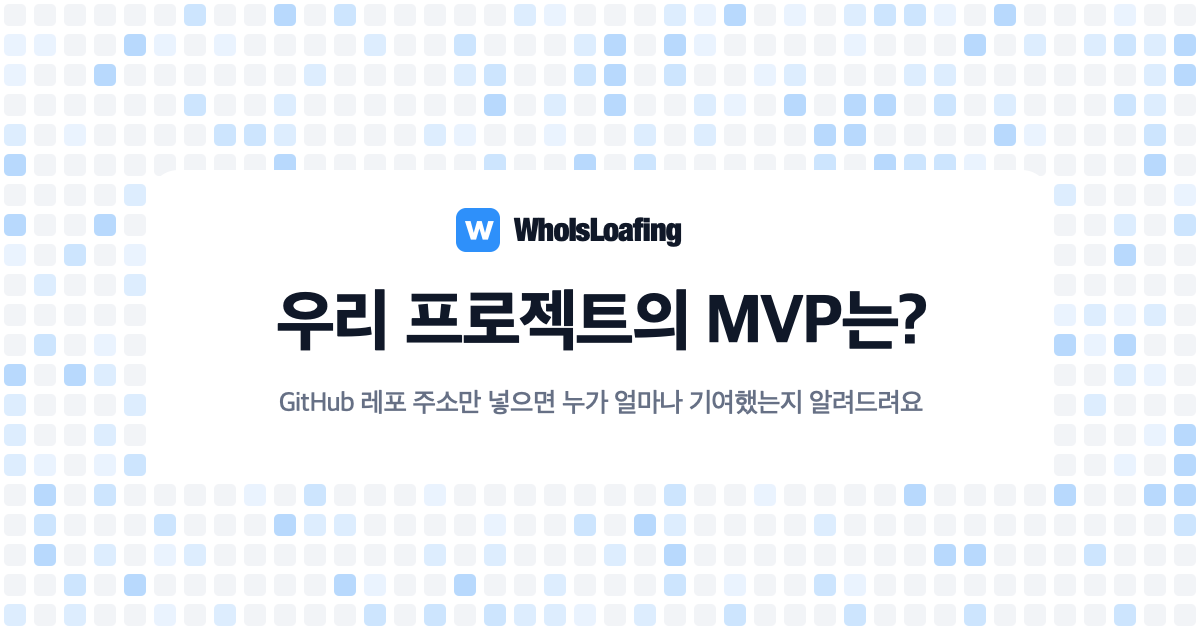
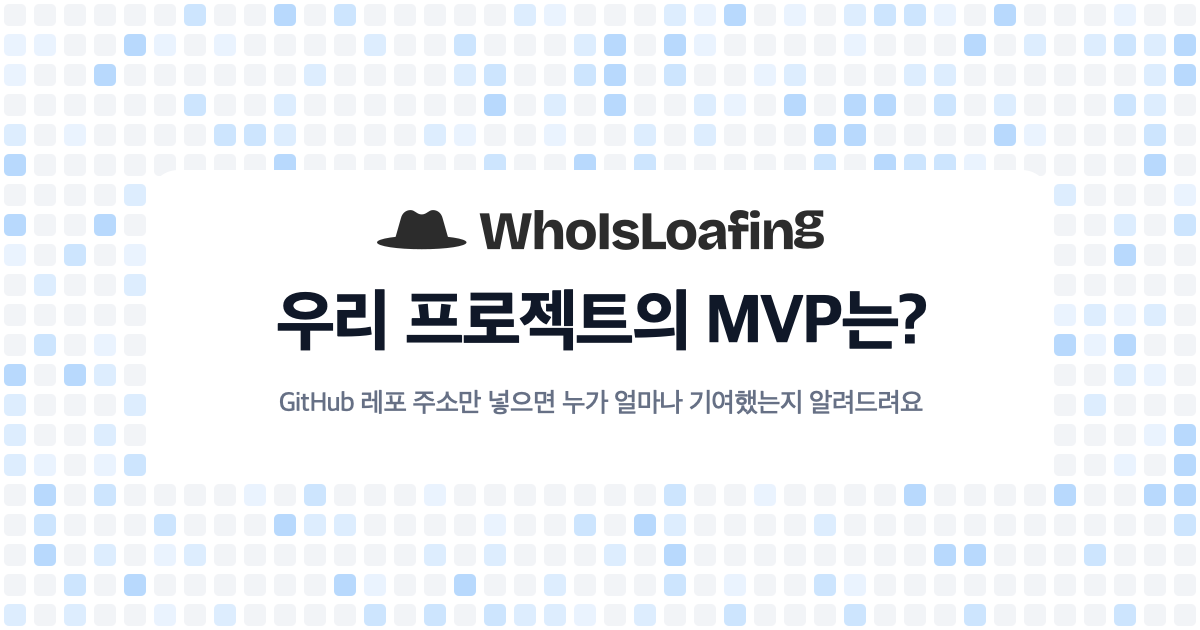
feat: 새 로고를 헤더, 파비콘, 링크 미리보기에 적용

Changed region(s): [[0.3083, 0.3317, 0.7092, 0.4222]]

diff --git a/index.html b/index.html
@@ -21,12 +21,7 @@
     <meta name="twitter:description" content="GitHub 레포 주소만 넣으면 누가 얼마나 기여했고 어떤 기능을 맡았는지 대화로 알려드려요." />
     <meta name="twitter:image" content="https://whoisloafing.hidly.dev/og.png" />
     <link rel="icon" type="image/svg+xml" href="/favicon.svg" />
-    <link rel="preconnect" href="https://fonts.googleapis.com" />
-    <link rel="preconnect" href="https://fonts.gstatic.com" crossorigin />
-    <link
-      rel="stylesheet"
-      href="https://fonts.googleapis.com/css2?family=Bricolage+Grotesque:opsz,wght@12..96,700;12..96,800&display=swap"
-    />
+    <link rel="preload" as="image" type="image/svg+xml" href="/logo.svg" />
     <link
       rel="stylesheet"
       href="https://cdn.jsdelivr.net/gh/orioncactus/pretendard@v1.3.9/dist/web/variable/pretendardvariable-dynamic-subset.min.css"

diff --git a/src/components/Logo.tsx b/src/components/Logo.tsx
@@ -7,9 +7,9 @@ export function Logo({ onClick }: { onClick?: () => void }) {
         event.preventDefault()
         onClick()
       }}
-      className="font-logo text-[17px] font-extrabold tracking-tight text-gray-900"
+      className="inline-flex items-center"
     >
-      WhoIsLoafing
+      <img src="/logo.svg" alt="WhoIsLoafing" width={3401} height={304} draggable={false} className="h-[15px] w-auto" />
     </a>
   )
 }

diff --git a/src/index.css b/src/index.css
@@ -7,7 +7,6 @@
 
   --font-sans: 'Pretendard Variable', Pretendard, -apple-system, BlinkMacSystemFont, system-ui, 'Apple SD Gothic Neo',
     'Noto Sans KR', sans-serif;
-  --font-logo: 'Bricolage Grotesque', 'Pretendard Variable', Pretendard, sans-serif;
 
   --tracking-base: -0.02em;
 
